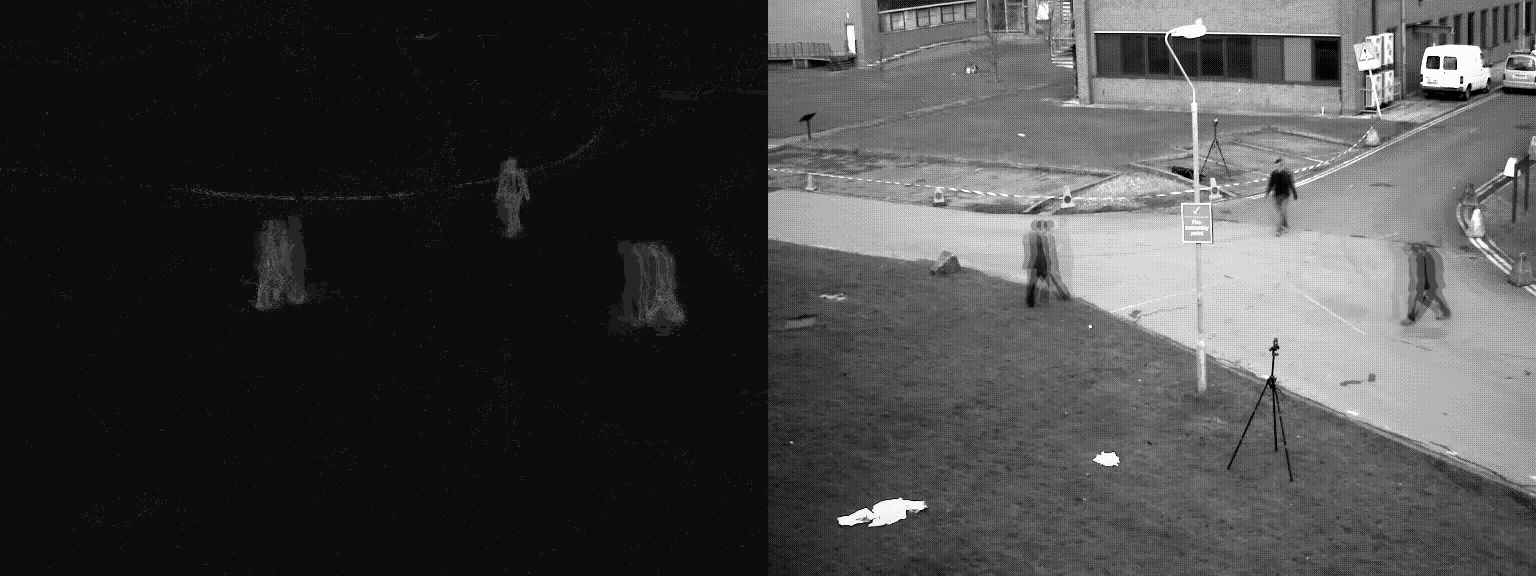
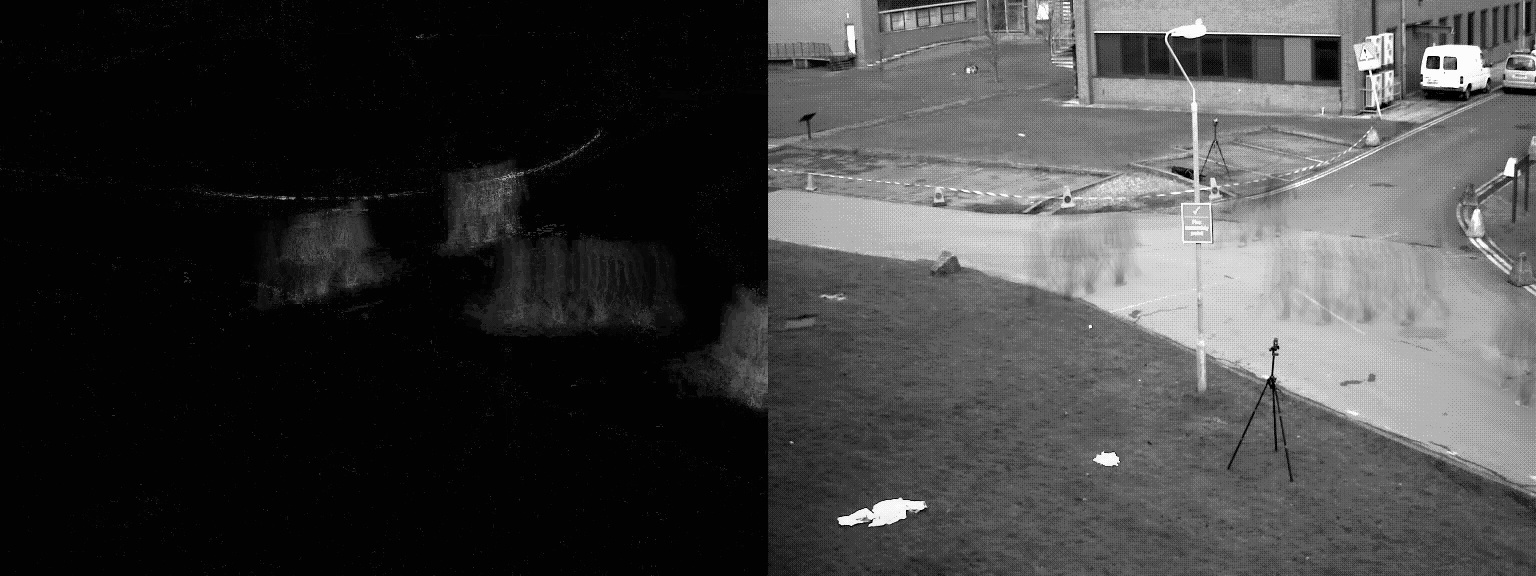
Add GIF output generation for foreground masks and apply morphological post-processing for cleaner detection

diff --git a/sequential/background_subtraction.py b/sequential/background_subtraction.py
@@ -1,6 +1,8 @@
 import cv2
 import numpy as np
 import os
+import imageio.v2 as imageio  # For GIF creation
+
 
 def load_images_from_folder(folder_path, limit=None):
     images = []
@@ -14,12 +16,75 @@ def load_images_from_folder(folder_path, limit=None):
     return np.array(images)
 
 def compute_background(images):
+    # Compute average background from stacked frames
     return np.mean(images, axis=0).astype(np.uint8)
 
-def subtract_background(background, test_frame, threshold=30):
+# def subtract_background(background, test_frame, threshold=45):
+#     # Subtract background and apply binary threshold
+#     diff = cv2.absdiff(background, test_frame)
+#     _, mask = cv2.threshold(diff, threshold, 255, cv2.THRESH_BINARY)
+
+#     # Apply morphological operations to remove noise and close holes
+#     kernel = np.ones((3, 3), np.uint8)
+#     mask = cv2.morphologyEx(mask, cv2.MORPH_OPEN, kernel)   # remove small white noise
+#     mask = cv2.morphologyEx(mask, cv2.MORPH_CLOSE, kernel)  # fill gaps in white blobs
+
+#     return mask
+
+def subtract_background(background, test_frame, threshold=45):
     diff = cv2.absdiff(background, test_frame)
+
+    # Binary thresholding
     _, mask = cv2.threshold(diff, threshold, 255, cv2.THRESH_BINARY)
+
+    # Morphological filtering
+    kernel = np.ones((5, 5), np.uint8)
+    mask = cv2.morphologyEx(mask, cv2.MORPH_OPEN, kernel)   # Remove small noise
+    mask = cv2.morphologyEx(mask, cv2.MORPH_CLOSE, kernel)  # Close gaps in moving objects
+
+    # Optional smoothing
+    mask = cv2.medianBlur(mask, 5)
+
     return mask
+
+def create_gif_from_frames(frame_folder, output_path, prefix="foreground_mask_", duration=0.1):
+    images = []
+    filenames = sorted([f for f in os.listdir(frame_folder) if f.startswith(prefix) and f.endswith('.jpg')])
+    for filename in filenames:
+        img = imageio.imread(os.path.join(frame_folder, filename))
+        images.append(img)
+    imageio.mimsave(output_path, images, duration=duration)
+    print(f"🎞 GIF created: {output_path}")
+
+
+
+# def main():
+#     frames_folder = "sequential/extracted_frames"
+#     output_folder = "sequential/output"
+#     os.makedirs(output_folder, exist_ok=True)
+
+#     print("🔍 Loading background frames...")
+#     images = load_images_from_folder(frames_folder, limit=50)  # Use more frames for better average
+#     if len(images) == 0:
+#         print("❌ No images found in folder.")
+#         return
+
+#     print("🧠 Computing background...")
+#     background = compute_background(images)
+#     cv2.imwrite(os.path.join(output_folder, "background.jpg"), background)
+
+#     test_frame_path = os.path.join(frames_folder, "frame_070.jpg")  # choose any mid-frame
+#     test_frame = cv2.imread(test_frame_path, cv2.IMREAD_GRAYSCALE)
+#     if test_frame is None:
+#         print(f"❌ Test frame {test_frame_path} not found!")
+#         return
+#     cv2.imwrite(os.path.join(output_folder, "test_frame.jpg"), test_frame)
+
+#     print("📤 Performing background subtraction...")
+#     mask = subtract_background(background, test_frame, threshold=45)
+#     cv2.imwrite(os.path.join(output_folder, "foreground_mask.jpg"), mask)
+
+#     print("✅ Done! Results saved in 'sequential/output/'")
 
 def main():
     frames_folder = "sequential/extracted_frames"
@@ -27,7 +92,7 @@ def main():
     os.makedirs(output_folder, exist_ok=True)
 
     print("🔍 Loading background frames...")
-    images = load_images_from_folder(frames_folder, limit=10)  # average of first 10 frames
+    images = load_images_from_folder(frames_folder, limit=50)
     if len(images) == 0:
         print("❌ No images found in folder.")
         return
@@ -36,18 +101,23 @@ def main():
     background = compute_background(images)
     cv2.imwrite(os.path.join(output_folder, "background.jpg"), background)
 
-    test_frame_path = os.path.join(frames_folder, "frame_015.jpg")  # you can change the test frame index
-    test_frame = cv2.imread(test_frame_path, cv2.IMREAD_GRAYSCALE)
-    if test_frame is None:
-        print(f"❌ Test frame {test_frame_path} not found!")
-        return
-    cv2.imwrite(os.path.join(output_folder, "test_frame.jpg"), test_frame)
+    print("📤 Performing background subtraction for multiple test frames...")
+    for i in range(60, 80):  # Adjust range to fit your video
+        frame_name = f"frame_{i:03d}.jpg"
+        test_frame_path = os.path.join(frames_folder, frame_name)
+        test_frame = cv2.imread(test_frame_path, cv2.IMREAD_GRAYSCALE)
+        if test_frame is None:
+            continue
+        mask = subtract_background(background, test_frame, threshold=45)
 
-    print("📤 Performing background subtraction...")
-    mask = subtract_background(background, test_frame, threshold=30)
-    cv2.imwrite(os.path.join(output_folder, "foreground_mask.jpg"), mask)
+        # Save frame and mask
+        cv2.imwrite(os.path.join(output_folder, f"foreground_mask_{i}.jpg"), mask)
 
-    print("✅ Done! Results saved in 'sequential/output/'")
+    # 🎞 Create GIF from saved mask frames
+    create_gif_from_frames(output_folder, os.path.join(output_folder, "foreground_mask.gif"))
+
+    print("✅ All done! Output and GIF saved in 'sequential/output/'")
+
 
 if __name__ == "__main__":
     main()
